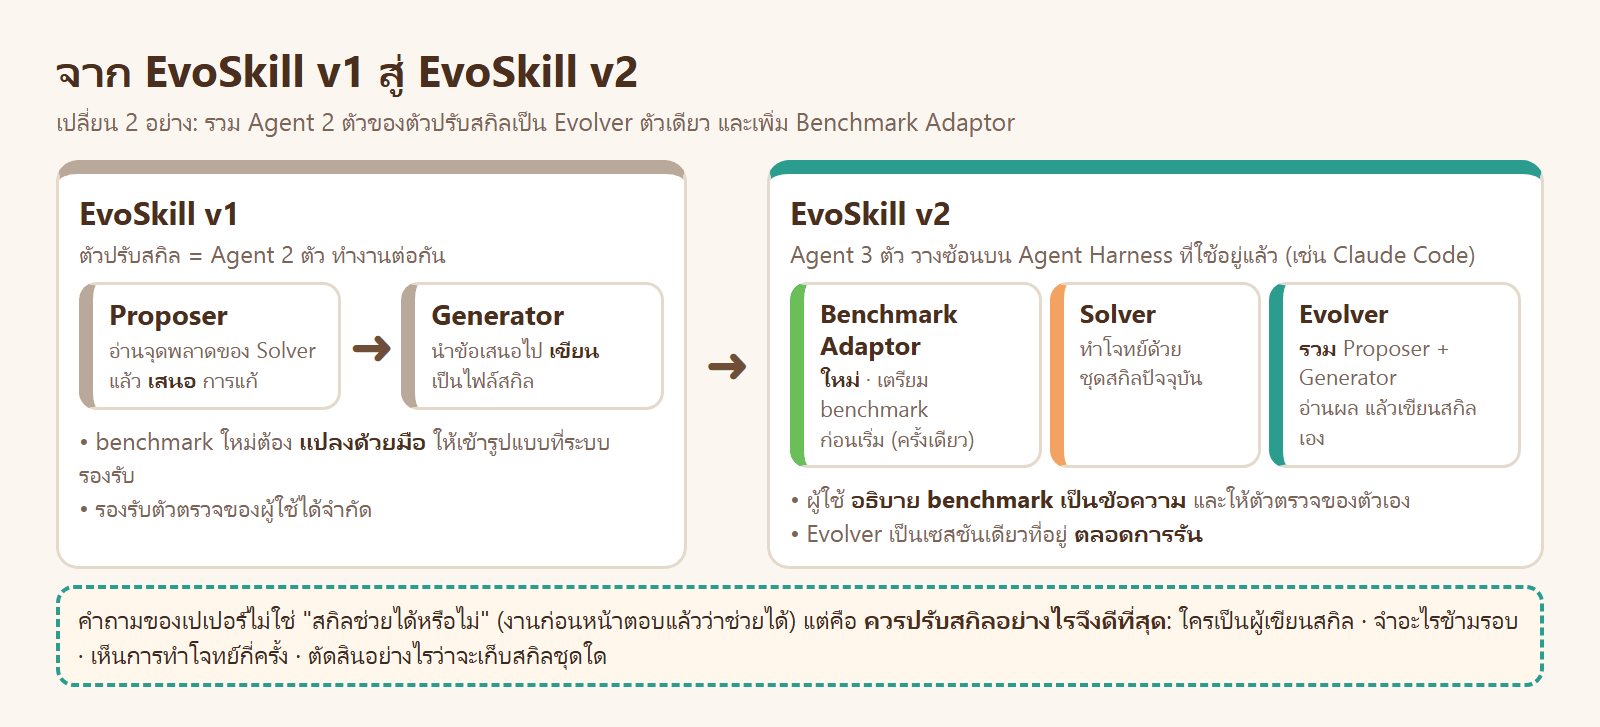
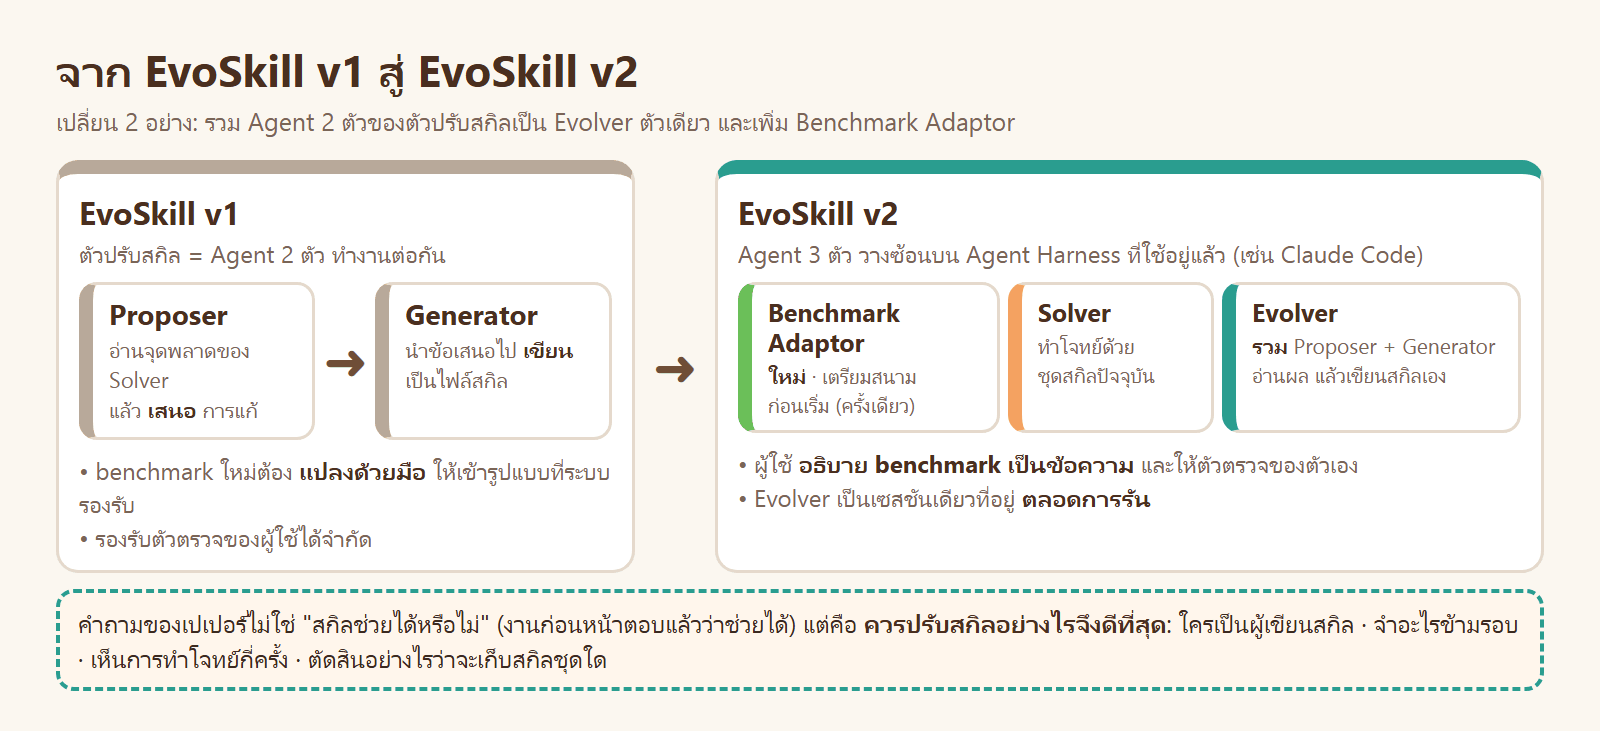
EvoSkill v2: tidy three theory diagrams, serialize pull.sh

diff --git a/03_week03/07_EvoSkill_v2/tools/diagrams.py b/03_week03/07_EvoSkill_v2/tools/diagrams.py
@@ -49,21 +49,21 @@ def table(heads, rows, widths=None, size=23):
 
 # ------------------------------------------------------------------ t01 จาก v1 สู่ v2
 def v1v2():
-    left = """<div class='card' style='flex:1;border-top:14px solid %s'>
+    left = """<div class='card' style='flex:1.02;border-top:14px solid %s'>
       <div style='font-size:32px;font-weight:800;color:%s'>EvoSkill v1</div>
       <div class='note' style='margin:4px 0 12px'>ตัวปรับสกิล = Agent 2 ตัว ทำงานต่อกัน</div>
       <div class='row' style='gap:8px;align-items:stretch'>%s%s%s</div>
       <div class='note' style='margin-top:14px'>• benchmark ใหม่ต้อง <b>แปลงด้วยมือ</b> ให้เข้ารูปแบบที่ระบบรองรับ<br>• รองรับตัวตรวจของผู้ใช้ได้จำกัด</div></div>""" % (
         FILE, INK, box(FILE, "Proposer", "อ่านจุดพลาดของ Solver<br>แล้ว <b>เสนอ</b> การแก้", "flex:1"), arrow(),
         box(FILE, "Generator", "นำข้อเสนอไป <b>เขียน</b><br>เป็นไฟล์สกิล", "flex:1"))
-    right = """<div class='card' style='flex:1.25;border-top:14px solid %s'>
+    right = """<div class='card' style='flex:1.5;border-top:14px solid %s'>
       <div style='font-size:32px;font-weight:800;color:%s'>EvoSkill v2</div>
       <div class='note' style='margin:4px 0 12px'>Agent 3 ตัว วางซ้อนบน Agent Harness ที่ใช้อยู่แล้ว (เช่น Claude Code)</div>
       <div class='row' style='gap:8px;align-items:stretch'>%s%s%s</div>
       <div class='note' style='margin-top:14px'>• ผู้ใช้ <b>อธิบาย benchmark เป็นข้อความ</b> และให้ตัวตรวจของตัวเอง<br>• Evolver เป็นเซสชันเดียวที่อยู่ <b>ตลอดการรัน</b></div></div>""" % (
-        EVOLVER, INK, box(ADAPT, "Benchmark Adaptor", "<b>ใหม่</b> · เตรียม benchmark<br>ก่อนเริ่ม (ครั้งเดียว)", "flex:1", 26),
-        box(SOLVER, "Solver", "ทำโจทย์ด้วย<br>ชุดสกิลปัจจุบัน", "flex:0.8", 26),
-        box(EVOLVER, "Evolver", "<b>รวม</b> Proposer + Generator<br>อ่านผล แล้วเขียนสกิลเอง", "flex:1", 26))
+        EVOLVER, INK, box(ADAPT, "Benchmark Adaptor", "<b>ใหม่</b> · เตรียมสนาม<br>ก่อนเริ่ม (ครั้งเดียว)", "flex:1.15", 25, 21),
+        box(SOLVER, "Solver", "ทำโจทย์ด้วย<br>ชุดสกิลปัจจุบัน", "flex:0.85", 25, 21),
+        box(EVOLVER, "Evolver", "<b>รวม</b> Proposer + Generator<br>อ่านผล แล้วเขียนสกิลเอง", "flex:1.35", 25, 21))
     body = """<h1>จาก EvoSkill v1 สู่ EvoSkill v2</h1>
     <div class='sub'>เปลี่ยน 2 อย่าง: รวม Agent 2 ตัวของตัวปรับสกิลเป็น Evolver ตัวเดียว และเพิ่ม Benchmark Adaptor</div>
     <div class='row' style='align-items:stretch'>%s<div class='arrow'>➜</div>%s</div>%s""" % (
@@ -295,7 +295,8 @@ def paper_cost():
         for name, col, h1, c1, p1, h2, c2, p2 in rows:
             tr += "<tr><td style='border-left:14px solid %s;font-weight:800'>%s</td><td>%s</td><td>%s</td><td><b>%s</b></td><td>%s</td><td>%s</td><td><b>%s</b></td></tr>" % (col, name, h1, c1, p1, h2, c2, p2)
         return """<div style='font-size:26px;font-weight:800;color:%s;margin:12px 0 0'>%s (Held-out จาก %d episode)</div>
-        <table class='t'><tr><th></th><th>Held-out</th><th>ต้นทุน</th><th>ต่อ 1 จุดที่เพิ่ม</th><th>Held-out</th><th>ต้นทุน</th><th>ต่อ 1 จุดที่เพิ่ม</th></tr>%s</table>""" % (INK, title, total, tr)
+        <table class='t' style='table-layout:fixed'><tr><th style='width:400px'></th><th colspan='3' style='font-weight:800;color:#4A2F1F'>เห็น Ground Truth ละเอียด</th><th colspan='3' style='font-weight:800;color:#4A2F1F'>เห็นแค่ผ่านหรือไม่ผ่าน</th></tr>
+        <tr><th></th><th>Held-out</th><th>ต้นทุน</th><th>ต่อ 1 จุดที่เพิ่ม</th><th>Held-out</th><th>ต้นทุน</th><th>ต่อ 1 จุดที่เพิ่ม</th></tr>%s</table>""" % (INK, title, total, tr)
     ssb = tb("SpreadsheetBench v2", 312, [
         ("ไม่มีสกิล", "#BCAAA4", "81", "–", "–", "81", "–", "–"),
         ("SkillBoost", FILE, "101", "$13.95", "$2.18", "85", "$13.66", "$10.65"),
@@ -308,7 +309,7 @@ def paper_cost():
         ("EvoSkill v2 · Haiku evolver", "#7FC8BE", "46", "$1.87", "$0.09", "33", "$0.73", "$0.10"),
         ("EvoSkill v2", EVOLVER, "48", "$0.99", "$0.04", "41", "$1.55", "$0.10")])
     body = """<h1>ผลในเปเปอร์: ต้นทุนของผู้ปรับสกิล</h1>
-    <div class='sub'>Table 4 และ 5 ของเปเปอร์ · ต้นทุน = ราคาตามรายการของผู้ปรับสกิลอย่างเดียว (ไม่รวม rollout ของ Solver) · 3 คอลัมน์ซ้าย = เห็น Ground Truth ละเอียด · 3 คอลัมน์ขวา = เห็นแค่ผ่านหรือไม่ผ่าน</div>%s%s%s""" % (
+    <div class='sub'>Table 4 และ 5 ของเปเปอร์ · ต้นทุน = ราคาตามรายการของผู้ปรับสกิลอย่างเดียว (ไม่รวม rollout ของ Solver) · Held-out = จำนวน episode ที่ผ่าน</div>%s%s%s""" % (
         ssb, tau, strip(EVOLVER, "\"ต่อ 1 จุดที่เพิ่ม\" = ต้นทุน ÷ จำนวนจุดของ pass rate บน Held-out ที่เพิ่มจากไม่มีสกิล · EvoSkill v2 ต่ำสุดทั้ง 4 การเทียบ", 24, 10))
     shot(D + "t11-paper-cost.png", body, 960)
 
@@ -359,7 +360,7 @@ def methods():
     ]
     body = """<h1>EvoSkill v2 เทียบกับวิธีปรับสกิลอื่น</h1>
     <div class='sub'>2 แถวบน = วิธีที่เปเปอร์นำมาเทียบ · 2 แถวกลาง = วิธีของบท 05 และ 06 ตามที่ใช้ใน LAB ของเรา</div>%s""" % table(
-        ["วิธี", "ผู้ปรับสกิลคืออะไร", "จำอะไรข้ามรอบ", "ครั้งต่อโจทย์", "กติการับสกิล", "เห็นอะไรจากตัวตรวจ"], rows, [250, 370, 300, 110, 270, None], 21)
+        ["วิธี", "ผู้ปรับสกิลคืออะไร", "จำอะไรข้ามรอบ", "ครั้งต่อ<br>โจทย์", "กติการับสกิล", "เห็นอะไรจากตัวตรวจ"], rows, [215, 330, 280, 95, 255, None], 21)
     shot(D + "t13-methods.png", body, 760)
 
 
